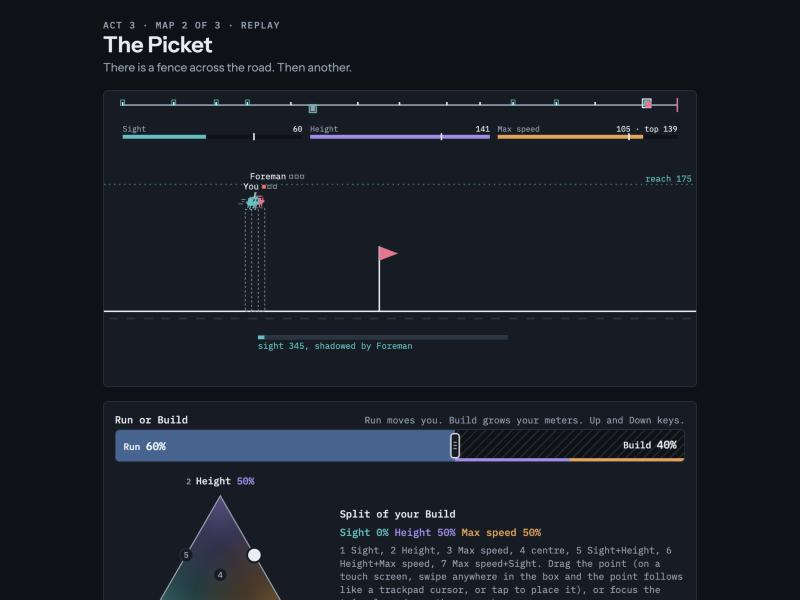
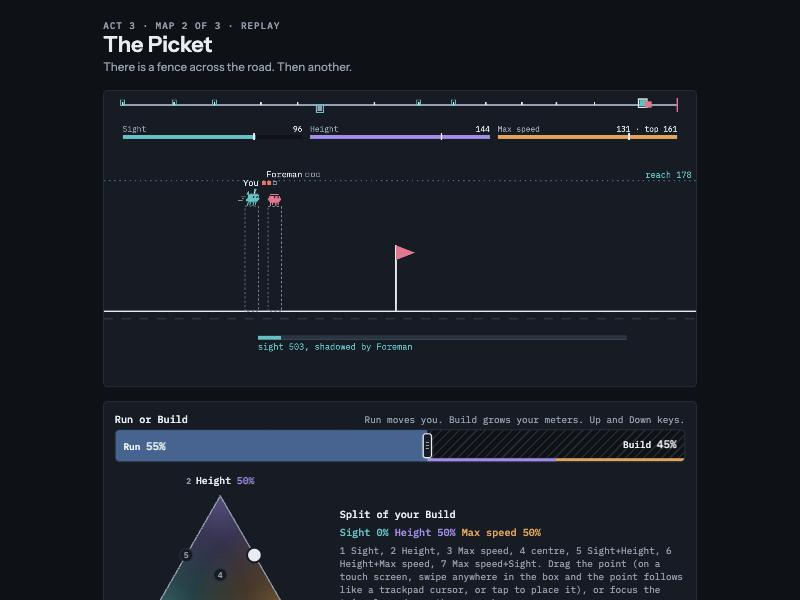
Fix the Foreman's wall stall and soften The Picket
SGP.rvBuild floored toward a box it had seen and ignored the wall before it, so it bounced forever
with its meters frozen. It now handles the wall first. The Ladder has no walls and did not change.
The Foreman is slower: speed 42, split 90 height 10 speed. Adds HD.kick to the key driver.
Seeds 9401-9440, keys with a flat-out run-out: follow line 32 of 40, max-out with eyes 39 of 40.
Bots: follow line 98, max-out with eyes 0. So the map is winnable by keys, but the follow idea only
beats max-out for bots. Stopped after two tries as directed. Status stays implemented.

diff --git a/experiments/pacing-the-frontier/check/lessons/ship/keydriver.js b/experiments/pacing-the-frontier/check/lessons/ship/keydriver.js
@@ -2,7 +2,7 @@
    A strategy bot is asked what to do every 250-400 ms of game time; its answer reaches the keys 250-400 ms later. Pace moves by Arrow Up/Down at 20 presses a second,
    floor and brake are held Arrow Right/Left, the split is the nearest of the seven number-key presets. Nothing writes the game's input directly unless HD.exactW is set (diagnostic).
    Knobs a careful person has and a bot does not: HD.ant (read the road this many seconds ahead of where you are), HD.mg (treat box widths as this much wider),
-   HD.brake (hold Back when more than this over the speed you want), HD.commit (only commit to a jump from your true position), HD.ease [x,pace] (past x, hold this pace until the next box is in sight).
+   HD.brake (hold Back when more than this over the speed you want), HD.commit (only commit to a jump from your true position), HD.ease [x,pace] (past x, hold this pace until the next box is in sight), HD.kick (flat out once the last wall and box are behind you).
    To run: copy ../../game/game.html to a page under this folder, add before `function gmRestart(){`:
      window.__h={top:function(l){return topSpeed(l);},sync:function(){syncInput();},gmRace:gmRace,K:function(){return K;},G:function(){return G;},SEGS:function(){return SEGS;},ui:function(){return ui;},ctrl:function(l,p){var o=l.post;l.post=p;var r=segCtrl(l,1);l.post=o;return r;}};
    and load this file after it. Then HD.batch(key,HD.use(key),firstSeed,n) in the console. Time is stepped at 1/60 s, syncInput each step as the frame loop does. */
@@ -15,7 +15,7 @@ window.HD=(function(){
  function run(key_,post,seed,stopAt){ var h=window.__h; begin(key_,seed); var G=h.G(),me=G.labs[0],r=rng(seed*7+1),nextD=0.3,Q=[],pace=null,held={},cur=null,ui=0.7,nextP=0,split=null,g=0,presses=0;
   var hold=function(c,on){ if(!!held[c]!==on){ held[c]=on; key(on?'keydown':'keyup',c); presses++; } };
   while(!G.over&&g++<40000&&(!stopAt||G.t<stopAt)){
-   if(G.t>=nextD){ var ox=me.x,gg=G.gaps[me.gi],ow=gg&&gg.W; if(gg&&HD.mg){ gg.W=ow*HD.mg; } var c=h.ctrl(me,post),sst=function(){ return me.sst&&me.sst.s&&me.sst.s[me.gi]; },st0=sst(); if(HD.commit&&!(st0&&st0.go)&&HD.ant){ me.x=Math.min(me.x+me.v*HD.ant,Math.max(me.x,Math.min(G.barriers[me.bi]?G.barriers[me.bi].x-2:1e9,gg?gg.x-2:1e9))); c=h.ctrl(me,post); me.x=ox; var st1=sst(); if(st1&&st1.go){ st1.go=false; c={pace:0,w:c.w}; } } else if(!HD.commit&&HD.ant){ me.x=Math.min(me.x+me.v*HD.ant,Math.max(me.x,Math.min(G.barriers[me.bi]?G.barriers[me.bi].x-2:1e9,gg?gg.x-2:1e9))); c=h.ctrl(me,post); me.x=ox; } me.x=ox; if(gg&&HD.mg){ gg.W=ow; } if(c&&HD.ease&&me.x>HD.ease[0]&&gg&&!(me.seenG&&me.seenG[me.gi])&&(c.pace>HD.ease[1]||c.fwd)){ c={pace:HD.ease[1],w:c.w}; } if(c){ Q.push({t:G.t+(HD.lag!==undefined?HD.lag:0.25+r()*0.15),c:{pace:c.pace,w:c.w,fwd:!!c.fwd,rev:!!c.rev,jump:!!c.jump}}); } nextD=G.t+(HD.samp!==undefined?HD.samp:0.25+r()*0.15); }
+   if(G.t>=nextD){ var ox=me.x,gg=G.gaps[me.gi],ow=gg&&gg.W; if(gg&&HD.mg){ gg.W=ow*HD.mg; } var c=h.ctrl(me,post),sst=function(){ return me.sst&&me.sst.s&&me.sst.s[me.gi]; },st0=sst(); if(HD.commit&&!(st0&&st0.go)&&HD.ant){ me.x=Math.min(me.x+me.v*HD.ant,Math.max(me.x,Math.min(G.barriers[me.bi]?G.barriers[me.bi].x-2:1e9,gg?gg.x-2:1e9))); c=h.ctrl(me,post); me.x=ox; var st1=sst(); if(st1&&st1.go){ st1.go=false; c={pace:0,w:c.w}; } } else if(!HD.commit&&HD.ant){ me.x=Math.min(me.x+me.v*HD.ant,Math.max(me.x,Math.min(G.barriers[me.bi]?G.barriers[me.bi].x-2:1e9,gg?gg.x-2:1e9))); c=h.ctrl(me,post); me.x=ox; } me.x=ox; if(gg&&HD.mg){ gg.W=ow; } if(c&&HD.ease&&me.x>HD.ease[0]&&gg&&!(me.seenG&&me.seenG[me.gi])&&(c.pace>HD.ease[1]||c.fwd)){ c={pace:HD.ease[1],w:c.w}; } if(c&&HD.kick&&!c.rev&&G.barriers.length&&me.x>G.barriers[G.barriers.length-1].x&&G.gaps.every(function(q){ return q.x<me.x; })){ c={pace:1,w:c.w,fwd:true}; } if(c){ Q.push({t:G.t+(HD.lag!==undefined?HD.lag:0.25+r()*0.15),c:{pace:c.pace,w:c.w,fwd:!!c.fwd,rev:!!c.rev,jump:!!c.jump}}); } nextD=G.t+(HD.samp!==undefined?HD.samp:0.25+r()*0.15); }
    while(Q.length&&Q[0].t<=G.t){ cur=Q.shift().c; if(cur.jump){ key('keydown','Space'); presses++; } }
    if(cur){ var fl=cur.fwd||cur.pace>=0.95; hold('ArrowRight',fl); var br=HD.brake&&!cur.rev&&!fl&&me.v>3&&cur.pace*Math.max(h.top(me),1)<me.v-HD.brake; hold('ArrowLeft',cur.rev||br);
      if(cur.w&&HD.exactW){ G.input.w=cur.w; h.ui().w=cur.w; } else if(cur.w){ var d=near(cur.w); if(d!==split){ split=d; key('keydown',d); presses++; } }
@@ -26,8 +26,8 @@ window.HD=(function(){
   hold('ArrowRight',false); hold('ArrowLeft',false);
   return {seed:seed,type:G.over&&G.result?G.result.type:'running',won:!!(G.over&&G.result&&G.result.type==='win'&&G.result.winner===me),t:+G.t.toFixed(1),str:me.strikes,dis:!!me.dissolved,fell:me.fellAt!==undefined,presses:presses}; }
  function batch(key_,post,a,n){ var o=[],i; for(i=0;i<n;i++){ o.push(run(key_,post,a+i)); } var w=o.filter(function(x){return x.won;}); return {map:key_,post:post,won:w.length,n:n,fell:o.filter(function(x){return x.fell;}).length,dis:o.filter(function(x){return x.dis;}).length,world:o.filter(function(x){return x.type==='all';}).length,firstWin:w[0]?w[0].seed:null,tWin:w[0]?w[0].t:null,t:w.length?+(w.reduce(function(s,x){return s+x.t;},0)/w.length).toFixed(1):null,keys:o[0].presses}; }
- var CFG={'three-strikes':['spLate',1,1.1,1],'elbows':['sp-s-bold',1,1.35,0],'steward':['sp-even-slow',1,1.35,0],'takeoff':['maxout',1,1.2,0],'red-box':['spBait',1,1.2,0],'trailbreaker':['sp-hs-tail',1.5,1.2,1],'only-box':['spFirst',1,1,1,[1650,0.85]],'ladder':['sp-hs-bold',1,1.35,0],'second-order':['spLook',1,1.2,1],'picket':['sp-hs-tail',1,1,0]};
- function use(k){ var c=CFG[k]; HD.ant=c[1]; HD.mg=c[2]; HD.commit=c[3]; HD.ease=c[4]||null; HD.brake=8; return c[0]; }
+ var CFG={'three-strikes':['spLate',1,1.1,1],'elbows':['sp-s-bold',1,1.35,0],'steward':['sp-even-slow',1,1.35,0],'takeoff':['maxout',1,1.2,0],'red-box':['spBait',1,1.2,0],'trailbreaker':['sp-hs-tail',1.5,1.2,1],'only-box':['spFirst',1,1,1,[1650,0.85]],'ladder':['sp-hs-bold',1,1.35,0],'second-order':['spLook',1,1.2,1],'picket':['sp-hs-tail',1,1,0,null,1]};
+ function use(k){ var c=CFG[k]; HD.ant=c[1]; HD.mg=c[2]; HD.commit=c[3]; HD.ease=c[4]||null; HD.kick=c[5]||0; HD.brake=8; return c[0]; }
  function frame(k){ var p=use(k),s,r; for(s=1;s<60;s++){ r=run(k,p,s); if(r.won){ run(k,p,s,r.t-1.2); return {k:k,seed:s,t:r.t,x:Math.round(window.__h.G().labs[0].x),fin:Math.round(window.__h.G().finish||0)}; } } return {k:k,none:true}; }
  return {run:run,batch:batch,ant:0,CFG:CFG,use:use,frame:frame};
 })();

diff --git a/experiments/pacing-the-frontier/check/lessons/ship/maps.js b/experiments/pacing-the-frontier/check/lessons/ship/maps.js
@@ -125,7 +125,8 @@ SGP.rvSprint=function(l,g,st){
 NOPEEK.rvSprint=1;
 /* Builder: floors it unless a wall needs height, which it buys just in time. Reads boxes as Reader does */
 SGC.rvBuild=function(l){ return shCruise(l,l.cpW||[0,70,30],'bold'); };
-SGP.rvBuild=function(l,g,st){ return shBox(l,g,st,l.cpW||[0,70,30],true); };
+/* a wall it cannot jump comes before the box: deal with the wall first. Without this it floors at the wall forever: flooring stops every meter from growing, so the height never comes */
+SGP.rvBuild=function(l,g,st){ var wl=shWall(l); if(wl&&wl.b.x<g.x){ return SGC.rvBuild(l); } return shBox(l,g,st,l.cpW||[0,70,30],true); };
 NOPEEK.rvBuild=1;
 /* Reader: a good steady lab. Never outruns its sight, stops at what it cannot clear, builds, goes */
 SGC.rvRead=function(l){ return shCruise(l,l.cpW||[30,40,30],'eyes'); };
@@ -152,9 +153,9 @@ SGC.rvShadow=function(l){ var a=shTailAhead(l),tw=shTower(l),T=Math.max(topSpeed
 SGP.rvShadow=function(l,g,st){ var a=shTailAhead(l); if(a&&a.x<g.x+g.W&&!(g.crossedBy>=0)){ return SGC.rvShadow(l); } if(st.go){ return cpFloor(l); } if(g.crossedBy>=0&&cpOut(Math.max(topSpeed(l),1)*.98,heightOf(l),gapWidth(l,g)*1.05+2,g.rise)===0){ return cpFloor(l); } return shBox(l,g,st,l.cpW||[0,20,80],true); };
 NOPEEK.rvShadow=1;
 
-/* ---- ACT 3, MAP 2. THE PICKET. Tall walls, close together, no time for anything but height. A wall is a strike and it costs your speed SAW in the page: white walls one after another, the reach line reads at a glance, a strike toast; a rival ahead hid a wall from me and that caused a strike. Run-out lengthened from 160 to 450 so the follow line can pass on it. Under key lag most losses end under two seconds behind; 620 did not help. ---- */
+/* ---- ACT 3, MAP 2. THE PICKET. Tall walls, close together, no time for anything but height. A wall is a strike and it costs your speed SAW in the page: white walls one after another, the reach line reads at a glance, a strike toast; a rival ahead hid a wall from me and that caused a strike. Run-out lengthened from 160 to 450 so the follow line can pass on it. Under key lag most losses ended under two seconds behind and 620 did not help; the Foreman then got slower (speed 42, split 90/10) and the wall bug in SGP.rvBuild was fixed. See NOTES: by keys, max-out with eyes now beats the follow line. ---- */
 shMap({key:'picket',act:3,slot:2,lesson:'',title:'The Picket',strategy:'sp-hs-tail',
-  P:{you:[30,20,70],rivals:[{post:'rvBuild',name:'Foreman',x:0,pts:[30,28,63],w:[0,70,30]}],first:280,gap:[170,260],hs:[58,76,92,106,118,128,138,148,156,164,172],after:450},
+  P:{you:[30,20,70],rivals:[{post:'rvBuild',name:'Foreman',x:0,pts:[30,28,42],w:[0,90,10]}],first:280,gap:[170,260],hs:[58,76,92,106,118,128,138,148,156,164,172],after:450},
   q:'There is a fence across the road. Then another.',
   meta:'Scaling hits a wall the size of the next data center: you buy the height or you take the crash.',
   track:function(r){ var P=this.P,mid=P.hs.slice(1,5),s=shShuffle(r,mid),hs=[P.hs[0]].concat(s,P.hs.slice(5)),it=[],i;

diff --git a/experiments/pacing-the-frontier/check/lessons/ship/NOTES.md b/experiments/pacing-the-frontier/check/lessons/ship/NOTES.md
@@ -38,7 +38,7 @@ Bold marks a rail not met.
 Earlier block, 9001-9040, before these changes: The Picket 55, Long Sight 63, Elbows 95, The Steward 75, Takeoff 75, Red Box 100, Trailbreaker 100, Three Strikes 80, Two Endings 100, The Only Box 63, The Ladder 88, Second Order 65.
 
 Unconfirmed reports from the ship manager, from a few hand runs:
-1. The Foreman stalling after being passed. Bots did not reproduce it: in 200 bot races on 1001-1040 it never stood still for more than 6 seconds. The key driver did, on 2 of seeds 1-14 of The Picket. On seed 1 the Foreman takes a strike, then sits at the wall at x 951, height 118, from about t 20 to t 299 with its meters stuck at 30/80/76. Its top height with a jump is 114. If you then dissolve, the race does not end until the 300 second limit. Why its meters stop growing is not diagnosed. Not fixed, because a change to the rival would change the held-out numbers.
+1. The Foreman stalling after being passed: now diagnosed and fixed, see the softening section. What was seen: bots did not reproduce it: in 200 bot races on 1001-1040 it never stood still for more than 6 seconds. The key driver did, on 2 of seeds 1-14 of The Picket. On seed 1 the Foreman takes a strike, then sits at the wall at x 951, height 118, from about t 20 to t 299 with its meters stuck at 30/80/76. Its top height with a jump is 114. If you then dissolve, the race does not end until the 300 second limit. 
 2. Long Sight won in 41.9 s by standing about 18 s with lowest sight, then flooring it. Not checked. If it holds, it skips the sight lesson.
 
 ## The last redesigns, seeds 9301-9340
@@ -101,9 +101,33 @@ The driver is not fully repeatable: a second Only Box run on the same seeds gave
 **Hard to win, and why.** Three Strikes, The Steward, Red Box, Trailbreaker and Second Order lose almost every race if you drive the bot's line with lag, because that line brakes on the last possible curve. At speed 120 a stop takes about 465 of road, and half a second of lag adds 60. Three Strikes is the tightest: its boxes are 540-660 apart, so flooring over one box can leave no room to stop for the next. Trailbreaker asks for the most patience, since the winning time is about 52 s, most of it standing behind Pioneer. None of these turned out to be bot-only, so none was redesigned for this.
 
 **The hardest three.**
-1. The Picket, 6 of 40, is the first campaign-completion risk. Most losses are close: on seeds 1-14 most ended 50-150 short of the flag at about speed 150, so under a second or two behind. Two of those 14 ended on three strikes. A run-out of 620 gave the same 6 of 20, so the road is not the fix, and I went back to 450. A person who learns the wall order on retries should do better than this driver, but that is a guess until someone plays it. If a person cannot win it, this is the map to soften first.
+1. The Picket was 6 of 40 on 9301-9340. It has since been softened; see the section after this one. As it was then: Most losses are close: on seeds 1-14 most ended 50-150 short of the flag at about speed 150, so under a second or two behind. Two of those 14 ended on three strikes. A run-out of 620 gave the same 6 of 20, so the road is not the fix, and I went back to 450. A person who learns the wall order on retries should do better than this driver, but that is a guess until someone plays it. If a person cannot win it, this is the map to soften first.
 2. The Only Box needs a habit the bot does not have. Sight 45 sees the box about 278 away and a stop from speed 87 takes 243, so half a second of lag at full speed leaves no room, and a box seen late is fallen into. Easing to 85% pace from x 1650 until the box is in sight, and trusting the "clears" readout rather than adding a margin, took it from 5-7 of 20 to 14 of 20 on the tuning seeds. That setting was tried on seeds 1-20 before the held-out run. Note that a first-time player does not know where the box is, so this is a line for the second try.
 3. Second Order, 28 of 40, falls 7 times. My reading, not traced seed by seed: the same stopping margin, this time behind a tower.
+
+## The Picket softened, and the Foreman stall fixed (seeds 9401-9440)
+
+**The stall was my bug, in `SGP.rvBuild`.** On The Picket there is one box, at about x 1060, just behind a wall. Once the Foreman has seen that box, the dispatcher hands it to the box plan, which floors toward the box and never looks at the wall in between. Flooring stops all meter growth (`r=fwd?0`), so it bounces off the wall and floors again, forever, with no height coming. Now, if a wall it cannot jump comes before the box, it deals with the wall first. No race timed out on seeds 1-20 with the fix. Only The Picket and The Ladder use this rival. The Ladder has no walls on the road and its numbers on 9201-9240 did not change (`sp-hs-bold` 88, max-out with eyes 5, blind max-out 100).
+
+The fix made the Foreman stronger, because it no longer loses time crashing. So the softening had to work against that.
+
+**Two tries on the Foreman, as directed, then stopped.** Starting speed and split, keys on seeds 1-20 with the bot's own pass:
+1. Speed 50, split 85 height 15 speed: 1 of 20, bots 98 on 1001-1040, max-out with eyes 0. Kept losing by 25-79.
+2. Speed 42, split 90 height 10 speed: 1 of 20, bots 98, max-out with eyes 3. Losses 19-62 with one outlier. This is the one kept.
+
+**The real problem was the pass.** A nearly constant gap meant the race was not what the driver was losing. The bot passes as late as it possibly can, and half a second of lag loses by about 50. So I added `HD.kick`: flat out as soon as the last wall is behind you. On seeds 1-20 that gave 17 of 20. A person would do that without being told, so this is a driver setting, not a change to the race. It was found on the tuning seeds after the two tries.
+
+| Line, seeds 9401-9440 | Keys, wins of 40, flat out from the last wall | Keys, wins of 40, bot's own pass | Bot win share |
+|---|---|---|---|
+| Follow line, `sp-hs-tail` | **32** | 1 | 98 |
+| Max-out with eyes, `sp-hs-eyes` | **39** | 10 | 0 |
+| `spBait` | not run | not run | 60 |
+| `sp-h-tail` | not run | not run | 48 |
+| `sp-h-eyes` | not run | not run | 30 |
+| Cruiser, `sp-hs-slow` | not run | not run | 0 |
+| Blind max-out, `maxout` | not run | not run | 0 |
+
+**The target is half met.** At least 20 of 40 by keys: met, 32. Max-out with eyes clearly below the follow line: met for bots, 98 to 0, and **not met by keys, where it wins more, 39 to 32.** So for a person The Picket is now winnable, and the follow idea in its sentence is probably not what wins. Buying height and speed, reading the walls, and flooring the run-out does. I did not take a third try. The map's sentence is unchanged, as directed, and it is now flattering. Blocks: the no-kick key runs happened by accident, because the browser had cached the old driver; they count as that setting's one run. A page reload then ran the kick setting once.
 
 ## What varies by seed
 
